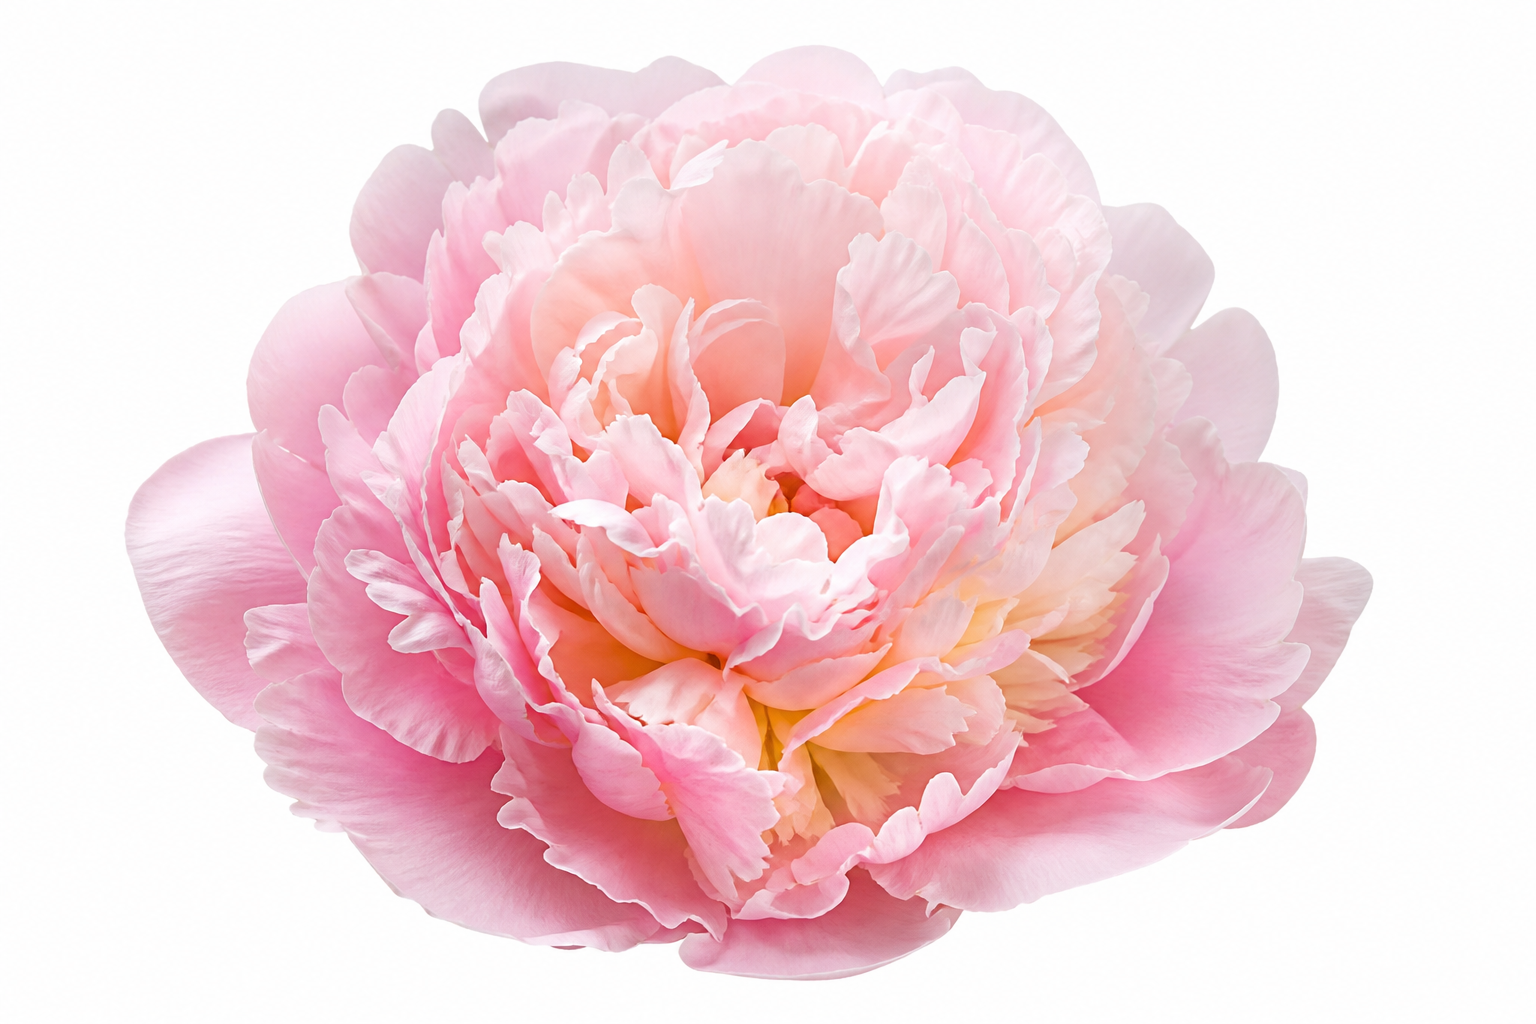
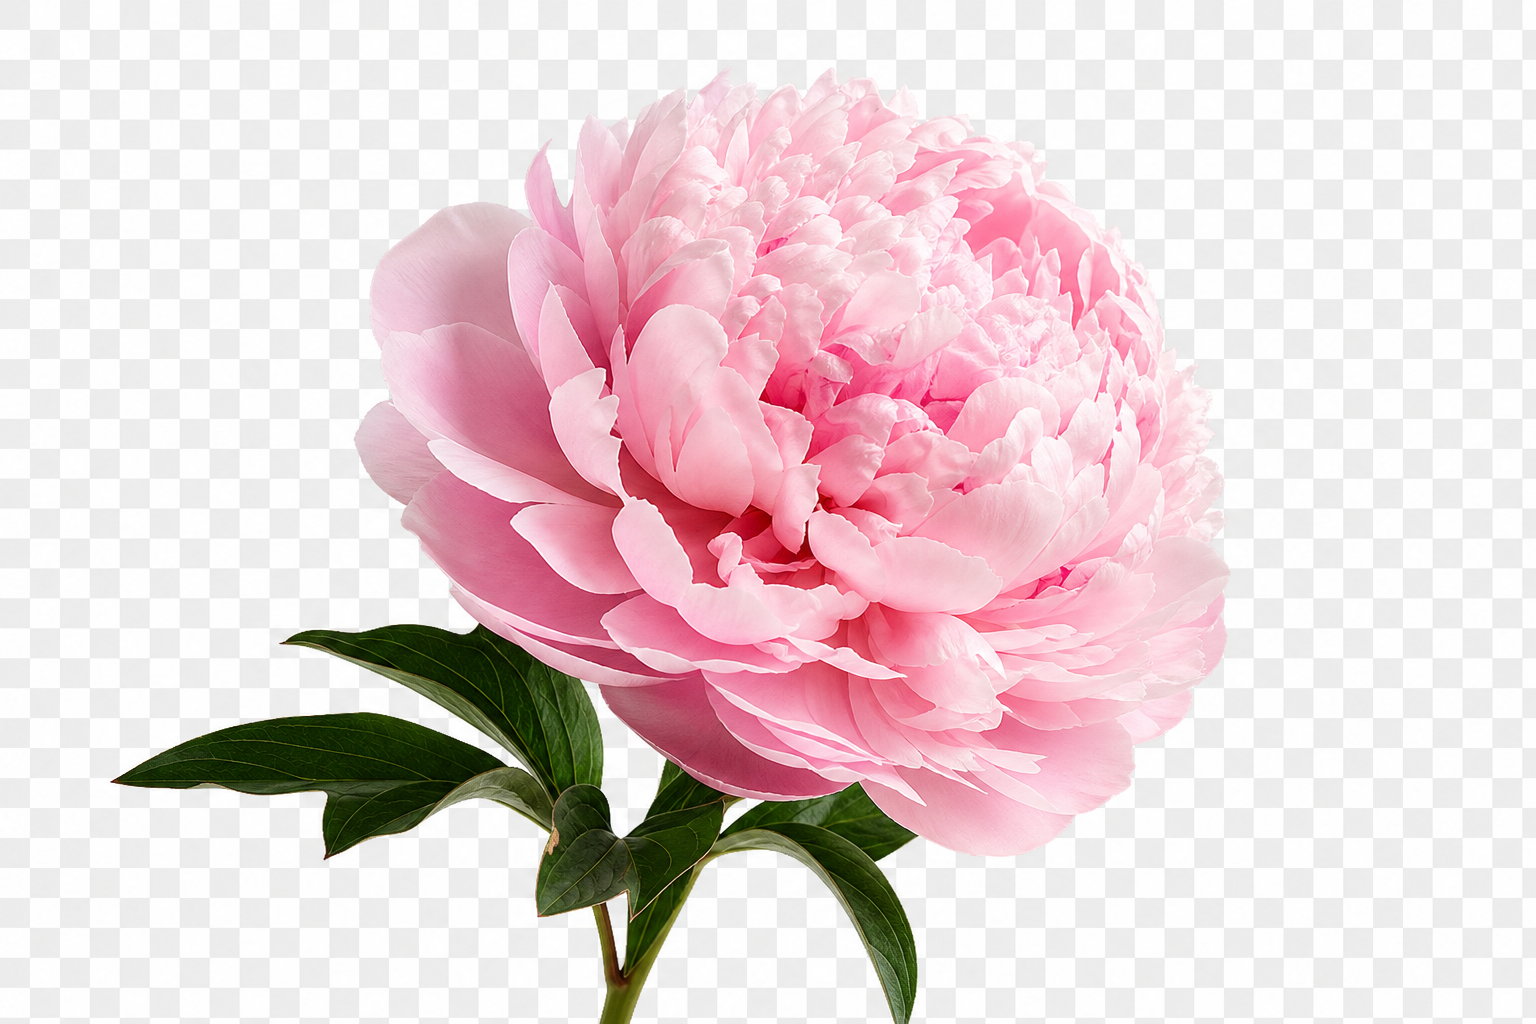
Обновить фото виллы с морем и пионы без белого фона

diff --git a/public/css/style.css b/public/css/style.css
@@ -62,8 +62,9 @@ a {
   flex-direction: column;
   justify-content: center;
   align-items: center;
-  padding: 2rem 1.25rem 2.5rem;
+  padding: 2.75rem 1.25rem 2.5rem;
   text-align: center;
+  overflow: visible;
   background:
     repeating-linear-gradient(
       90deg,
@@ -84,7 +85,7 @@ a {
 .frame {
   position: relative;
   margin: 0 auto;
-  padding: clamp(2rem, 6vw, 3rem) clamp(1.5rem, 5vw, 2.25rem);
+  padding: clamp(2.4rem, 7vw, 3.2rem) clamp(1.5rem, 5vw, 2.25rem) clamp(2rem, 6vw, 3rem);
   width: min(92vw, 380px);
   background: var(--white);
   border: 2px solid var(--green-deep);
@@ -92,17 +93,44 @@ a {
   box-shadow: 0 16px 40px var(--shadow);
   outline: 2px solid rgba(191, 95, 121, 0.35);
   outline-offset: -12px;
+  overflow: visible;
 }
 
-.frame__peonies {
-  display: flex;
-  justify-content: center;
-  align-items: flex-end;
-  gap: 0.35rem;
-  margin-bottom: 1rem;
+.frame__flowers {
+  position: absolute;
+  inset: 0;
+  pointer-events: none;
+  z-index: 2;
+}
+
+.frame__flowers .peony {
+  position: absolute;
+}
+
+.frame__flowers .peony--left {
+  top: -1.35rem;
+  left: -1.1rem;
+  width: clamp(4.5rem, 18vw, 5.75rem);
+  transform: rotate(-18deg) scaleX(-1);
+}
+
+.frame__flowers .peony--top {
+  top: -2rem;
+  left: 50%;
+  width: clamp(4rem, 16vw, 5.25rem);
+  transform: translateX(-50%) rotate(4deg);
+}
+
+.frame__flowers .peony--right {
+  top: -1.2rem;
+  right: -1rem;
+  width: clamp(4.5rem, 18vw, 5.75rem);
+  transform: rotate(14deg);
 }
 
 .frame__names {
+  position: relative;
+  z-index: 1;
   margin: 0;
   font-family: var(--font-cover);
   font-size: clamp(2.4rem, 10vw, 3.25rem);
@@ -113,6 +141,8 @@ a {
 }
 
 .frame__date {
+  position: relative;
+  z-index: 1;
   margin: 1.25rem 0 0;
   font-family: var(--font-cover);
   font-size: clamp(1.85rem, 7vw, 2.6rem);
@@ -121,30 +151,23 @@ a {
   letter-spacing: 0.08em;
 }
 
-/* ─── Пионовидные розы (фото) ─── */
+/* ─── Пионовидные розы (прозрачный фон) ─── */
 .peony {
-  width: 64px;
+  display: block;
   height: auto;
   flex-shrink: 0;
   object-fit: contain;
-  filter: drop-shadow(0 3px 8px rgba(0, 0, 0, 0.14));
+  filter: drop-shadow(0 6px 14px rgba(80, 40, 55, 0.16));
+  pointer-events: none;
+  user-select: none;
 }
 
-.peony--sm {
-  width: 52px;
+.peony--hero {
+  opacity: 0.96;
 }
 
-.peony--xs {
-  width: 44px;
-  opacity: 0.72;
-}
-
-.peony--pink {
-  transform: rotate(-6deg);
-}
-
-.peony--green {
-  transform: translateY(-3px) rotate(4deg);
+.peony--accent {
+  opacity: 0.82;
 }
 
 /* ─── Секции + анимация при скролле ─── */
@@ -198,7 +221,8 @@ a {
 
 /* ─── Приветствие с цветочками ─── */
 .greeting {
-  overflow: hidden;
+  overflow: visible;
+  padding-top: 3.25rem;
 }
 
 .greeting__flowers {
@@ -211,19 +235,28 @@ a {
   position: absolute;
 }
 
-.greeting__flowers .peony:nth-child(1) {
-  top: 0.5rem;
+.greeting__flowers .peony--accent-1 {
+  top: -0.35rem;
+  left: -0.85rem;
+  width: clamp(4.25rem, 17vw, 5.5rem);
+  transform: rotate(-22deg) scaleX(-1);
+  opacity: 0.7;
+}
+
+.greeting__flowers .peony--accent-2 {
+  top: 1.25rem;
+  right: -0.75rem;
+  width: clamp(3.5rem, 14vw, 4.5rem);
+  transform: rotate(16deg);
+  opacity: 0.55;
+}
+
+.greeting__flowers .peony--accent-3 {
+  bottom: 0.35rem;
   left: 0.15rem;
-}
-
-.greeting__flowers .peony:nth-child(2) {
-  top: 2.5rem;
-  right: 0.1rem;
-}
-
-.greeting__flowers .peony:nth-child(3) {
-  bottom: 1rem;
-  left: 0.5rem;
+  width: clamp(3rem, 12vw, 3.75rem);
+  transform: rotate(-8deg);
+  opacity: 0.45;
 }
 
 .greeting p {
@@ -242,6 +275,9 @@ a {
   border-radius: 8px;
   border: 3px solid var(--white);
   box-shadow: 0 8px 24px var(--shadow);
+  aspect-ratio: 16 / 10;
+  object-fit: cover;
+  object-position: center 42%;
 }
 
 .info-card {

diff --git a/public/index.html b/public/index.html
@@ -19,10 +19,10 @@
         <p class="hero__label">приглашение на свадьбу</p>
 
         <div class="frame">
-          <div class="frame__peonies" aria-hidden="true">
-            <img class="peony peony--pink" src="/assets/peonies/peony-pink.png" alt="" width="120" height="120" />
-            <img class="peony peony--green" src="/assets/peonies/peony-soft.png" alt="" width="120" height="120" />
-            <img class="peony peony--pink" src="/assets/peonies/peony-pink.png" alt="" width="120" height="120" />
+          <div class="frame__flowers" aria-hidden="true">
+            <img class="peony peony--hero peony--left" src="/assets/peonies/peony-pink.png" alt="" width="160" height="160" />
+            <img class="peony peony--hero peony--top" src="/assets/peonies/peony-soft.png" alt="" width="140" height="140" />
+            <img class="peony peony--hero peony--right" src="/assets/peonies/peony-pink.png" alt="" width="160" height="160" />
           </div>
           <h1 class="frame__names" id="couple-names">Лилия<br />и<br />Дамир</h1>
           <p class="frame__date">12 · 09 · 2026</p>
@@ -33,9 +33,9 @@
 
       <section class="section greeting">
         <div class="greeting__flowers" aria-hidden="true">
-          <img class="peony peony--xs peony--pink" src="/assets/peonies/peony-pink.png" alt="" width="80" height="80" />
-          <img class="peony peony--xs peony--green" src="/assets/peonies/peony-soft.png" alt="" width="80" height="80" />
-          <img class="peony peony--xs peony--pink" src="/assets/peonies/peony-pink.png" alt="" width="80" height="80" />
+          <img class="peony peony--accent peony--accent-1" src="/assets/peonies/peony-soft.png" alt="" width="120" height="120" />
+          <img class="peony peony--accent peony--accent-2" src="/assets/peonies/peony-pink.png" alt="" width="100" height="100" />
+          <img class="peony peony--accent peony--accent-3" src="/assets/peonies/peony-soft.png" alt="" width="88" height="88" />
         </div>
         <h2 class="section__title section__title--script">Дорогие наши, самые близкие люди!</h2>
         <p>
